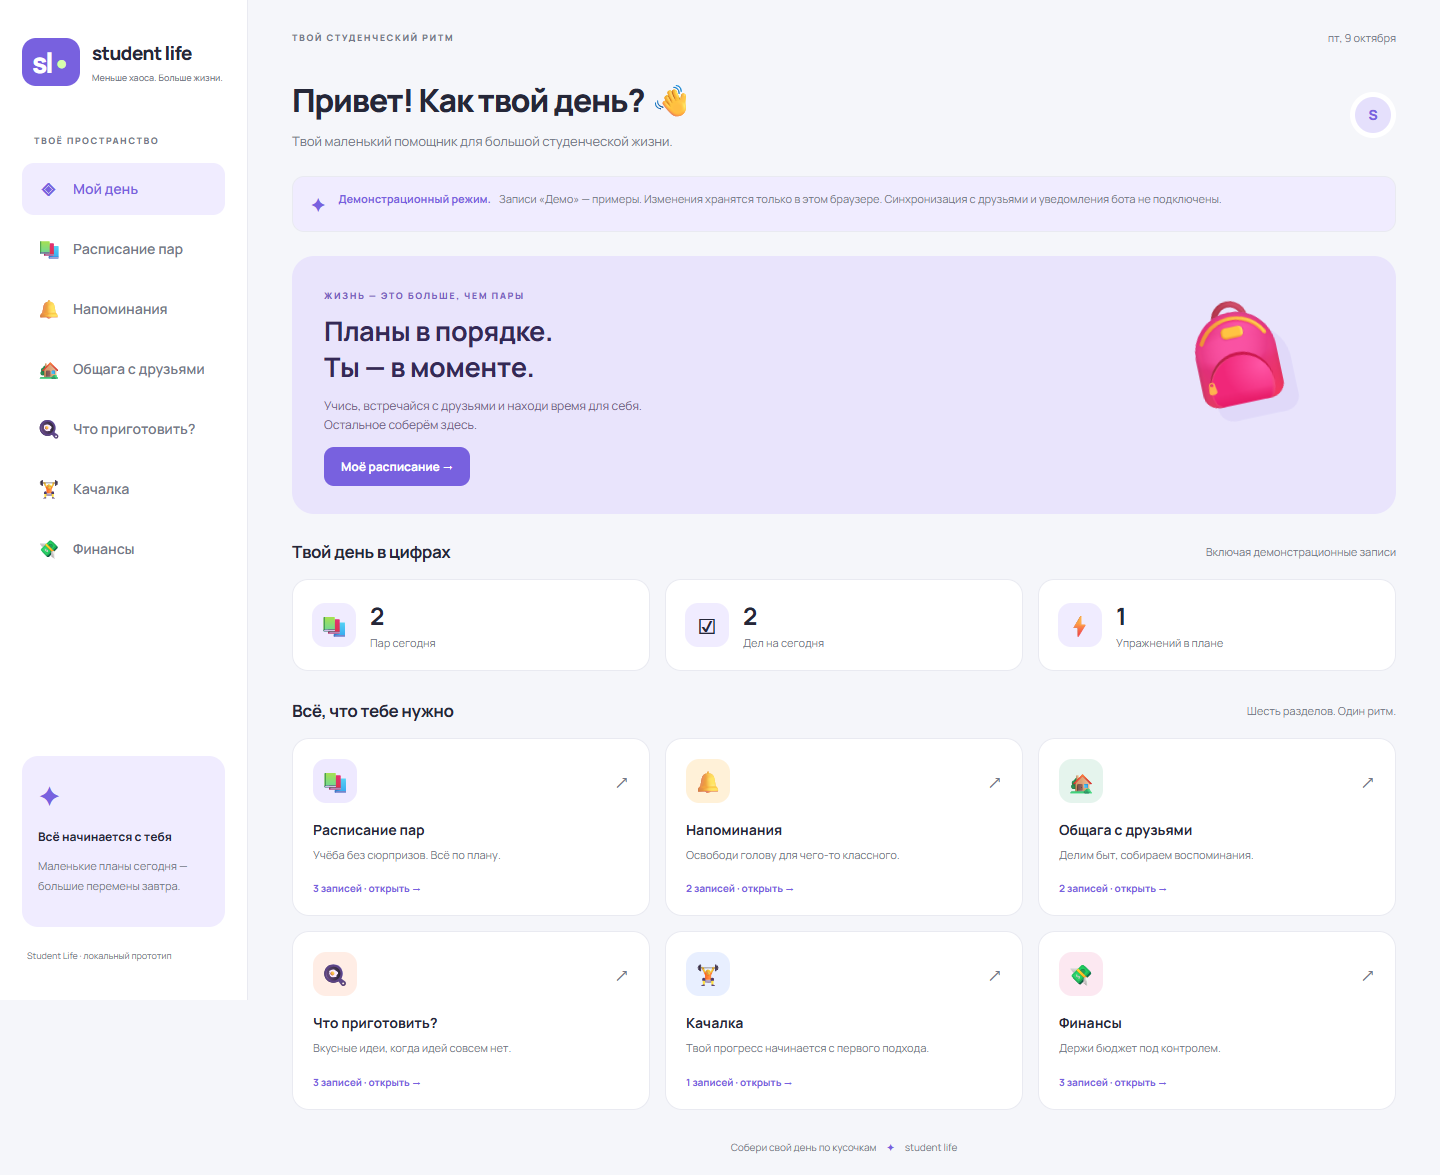
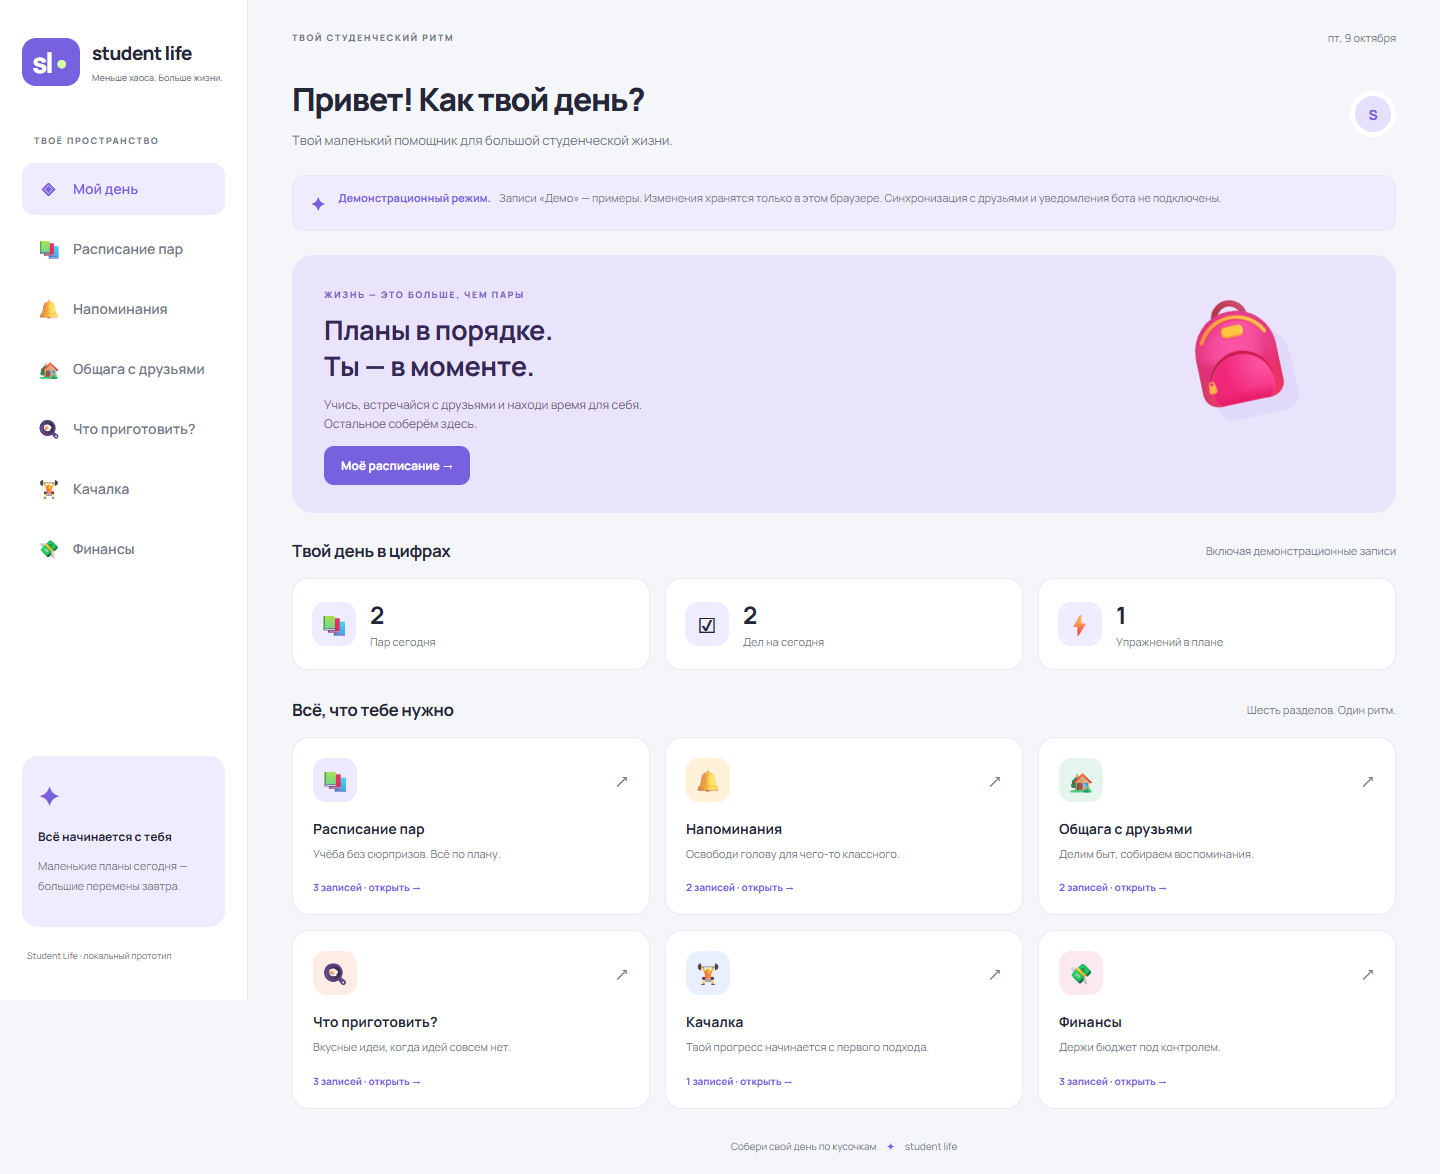
Polish Student Life Mini App accessibility and document tested workflows

diff --git a/app.js b/app.js
@@ -45,6 +45,7 @@
     const inset = tg?.contentSafeAreaInset, safe = tg?.safeAreaInset;
     document.documentElement.style.setProperty('--safe-top',`${(inset?.top||0)+(safe?.top||0)}px`);
     document.documentElement.style.setProperty('--safe-bottom',`${(inset?.bottom||0)+(safe?.bottom||0)}px`);
+    for (const edge of ['left','right']) document.documentElement.style.setProperty(`--safe-${edge}`,`${(inset?.[edge]||0)+(safe?.[edge]||0)}px`);
   }
   theme();
   if(tg) { tg.ready(); tg.expand(); tg.onEvent?.('themeChanged',theme); tg.onEvent?.('safeAreaChanged',theme); tg.onEvent?.('contentSafeAreaChanged',theme); tg.BackButton?.onClick(() => { if($('#editor').open) $('#editor').close(); else if($('#confirm').open) $('#confirm').close(); else location.hash='home'; }); }
@@ -85,7 +86,7 @@
     if(key==='home') $('#view').innerHTML=home();
     else {
       let extra='', items=[...data[key]];
-      if(key==='schedule') { extra=`<div class="tabs" role="group" aria-label="День недели">${days.map(day=>`<button class="tab ${day===selectedDay?'active':''}" data-day="${day}" aria-pressed="${day===selectedDay}">${day.slice(0,2)}</button>`).join('')}</div>`; items=items.filter(x=>x.day===selectedDay).sort((a,b)=>a.start.localeCompare(b.start)); }
+      if(key==='schedule') { extra=`<div class="tabs" role="group" aria-label="День недели">${days.map(day=>`<button class="tab ${day===selectedDay?'active':''}" data-day="${day}" aria-label="${day}" aria-pressed="${day===selectedDay}">${day.slice(0,2)}</button>`).join('')}</div>`; items=items.filter(x=>x.day===selectedDay).sort((a,b)=>a.start.localeCompare(b.start)); }
       if(key==='finance') { const total=kind=>data.finance.filter(x=>x.kind===kind).reduce((sum,x)=>sum+x.amount,0); extra=`<div class="stats">${stat('↗',money(total('Доход')),'Все доходы')}${stat('↘',money(total('Расход')),'Все расходы')}${stat('◈',money(total('Доход')-total('Расход')),'Баланс · включая демо')}</div>`; }
       if(key==='meals') extra=mealPanel();
       if(['reminders','dorm','gym','finance'].includes(key)) items.sort((a,b)=>Number(a.done||false)-Number(b.done||false)||a.date.localeCompare(b.date)||(a.time||'').localeCompare(b.time||''));
@@ -104,7 +105,7 @@
       if(Array.isArray(type)) control=`<select name="${name}">${type.map(option=>`<option ${option===value?'selected':''}>${escape(option)}</option>`).join('')}</select>`;
       else if(type==='textarea') control=`<textarea name="${name}" maxlength="2000" ${['ingredients','recipe'].includes(name)?'required':''}>${escape(value)}</textarea>`;
       else control=`<input name="${name}" type="${type}" value="${escape(value)}" ${name==='teacher'?'':'required'} ${type==='number'?`min="${name==='amount'?'0.01':'1'}" max="${name==='amount'?'1000000000':'10000'}" step="${name==='amount'?'0.01':'1'}"`:'maxlength="150"'}>`;
-      return `<label class="field">${label}${control}</label>`;
+      return `<label class="field">${label}${name==='teacher'||(['note'].includes(name))?' (необязательно)':''}${control}</label>`;
     }).join('');
     $('#editor').showModal(); syncBack();
   }

diff --git a/style.css b/style.css
@@ -156,3 +156,4 @@ html[data-theme=dark] .primary,html[data-theme=dark] .tab.active{color:#211b38}
 html[data-theme=dark] .hero{background:#352d50;color:#eee7ff}
 html[data-theme=dark] .hero p{color:#c4b8db}
 
+.layout{padding-left:var(--safe-left,env(safe-area-inset-left));padding-right:var(--safe-right,env(safe-area-inset-right))}

diff --git a/README.md b/README.md
@@ -1,1 +1,56 @@
-# studentlife20
+# Student Life
+
+Адаптивный Telegram Mini App на HTML, CSS и JavaScript без сборки и серверных зависимостей.
+
+## Возможности
+
+- Главная страница со сводкой текущего дня и переходами в шесть разделов.
+- Расписание: дни недели, время начала и окончания, аудитория, преподаватель.
+- Напоминания: дата, время, заметки и отметка выполнения.
+- Общага с друзьями: дела, ответственные, даты и отметка выполнения.
+- Рандомайзер блюд: собственный список, ингредиенты, рецепт и случайный выбор без немедленного повторения при наличии нескольких блюд.
+- Качалка: упражнения, даты, подходы, повторения и выполнение.
+- Финансы: доходы, расходы, категории и баланс в тенге за всё время.
+- Добавление, редактирование, удаление с подтверждением и пустые состояния во всех разделах.
+
+## Данные и ограничения прототипа
+
+Начальные примеры отмечены «Демо», включая отредактированные примеры. Новые записи не имеют этой метки. Сводка и баланс учитывают демонстрационные записи, пока они не удалены.
+
+Данные сохраняются в localStorage текущего браузера (ключ `student-life:v1`). Это локальное хранилище, не база данных и не резервная копия: очистка данных браузера удалит записи. При недоступном хранилище приложение сообщает об ошибке, изменения остаются только до закрытия страницы. При повреждённых данных показываются демо-примеры. Даты зависят от локального времени устройства.
+
+Общага пока представляет локальный список дел с именами ответственных. Приглашения, совместное редактирование, синхронизация между устройствами и уведомления через бота не подключены. Напоминания — список задач, а не фоновая рассылка. Для этих возможностей нужен отдельный сервер.
+
+## Локальный запуск
+
+Требуется Node.js 20 или новее:
+
+```sh
+node preview.cjs
+```
+
+Открыть http://127.0.0.1:4175. Сервер доступен только на локальном компьютере.
+
+## Проверка
+
+```sh
+npm install
+npx playwright install chromium
+npm test
+```
+
+Тест сам запускает локальный сервер на порту 4175: перед тестом остановите отдельный сервер предпросмотра. Можно использовать установленный Edge, задав переменную `TEST_BROWSER_CHANNEL=msedge`.
+
+Браузерные проверки покрывают CRUD всех разделов, сохранение после перезагрузки, выполнение задач, отмену удаления, некорректное время пары, рандомайзер, безопасный вывод HTML, повреждённое хранилище, тёмную тему, мобильную ширину и интеграцию с имитацией Telegram SDK. Скриншоты `desktop-preview.png` и `mobile-preview.png` создаются локально; новые файлы предпросмотра исключены из Git. Снимки, ранее добавленные в репозиторий, сохраняются. Реальное поведение WebView следует дополнительно проверить в Telegram на Android/iOS.
+
+## Telegram Mini Apps
+
+Подключён официальный SDK: `ready()`, `expand()`, нативная кнопка «Назад», смена темы и безопасные отступы. Приложение также работает в обычном браузере. Пользовательские данные не отправляются на сервер. SDK Telegram и необязательный шрифт Google Fonts загружаются по HTTPS; при недоступности шрифта используется системный.
+
+Документация: https://core.telegram.org/bots/webapps
+
+Токены не нужны для текущего интерфейса. Никогда не добавляйте токен бота в HTML/JS или репозиторий. При добавлении серверных функций храните секреты в серверных переменных окружения и проверяйте Telegram `initData` на сервере; клиентские данные не являются подтверждением личности.
+
+## Vercel — после просмотра PR
+
+Это статический сайт: Framework Preset **Other**, без команды сборки, Output Directory — корень проекта (`.`). Публикуемые файлы: `index.html`, `style.css`, `app.js`. После одобрения и слияния PR можно подключить production URL по HTTPS в BotFather. Создание PR само по себе не означает публикацию; существующая интеграция Vercel может автоматически создать preview для ветки.
